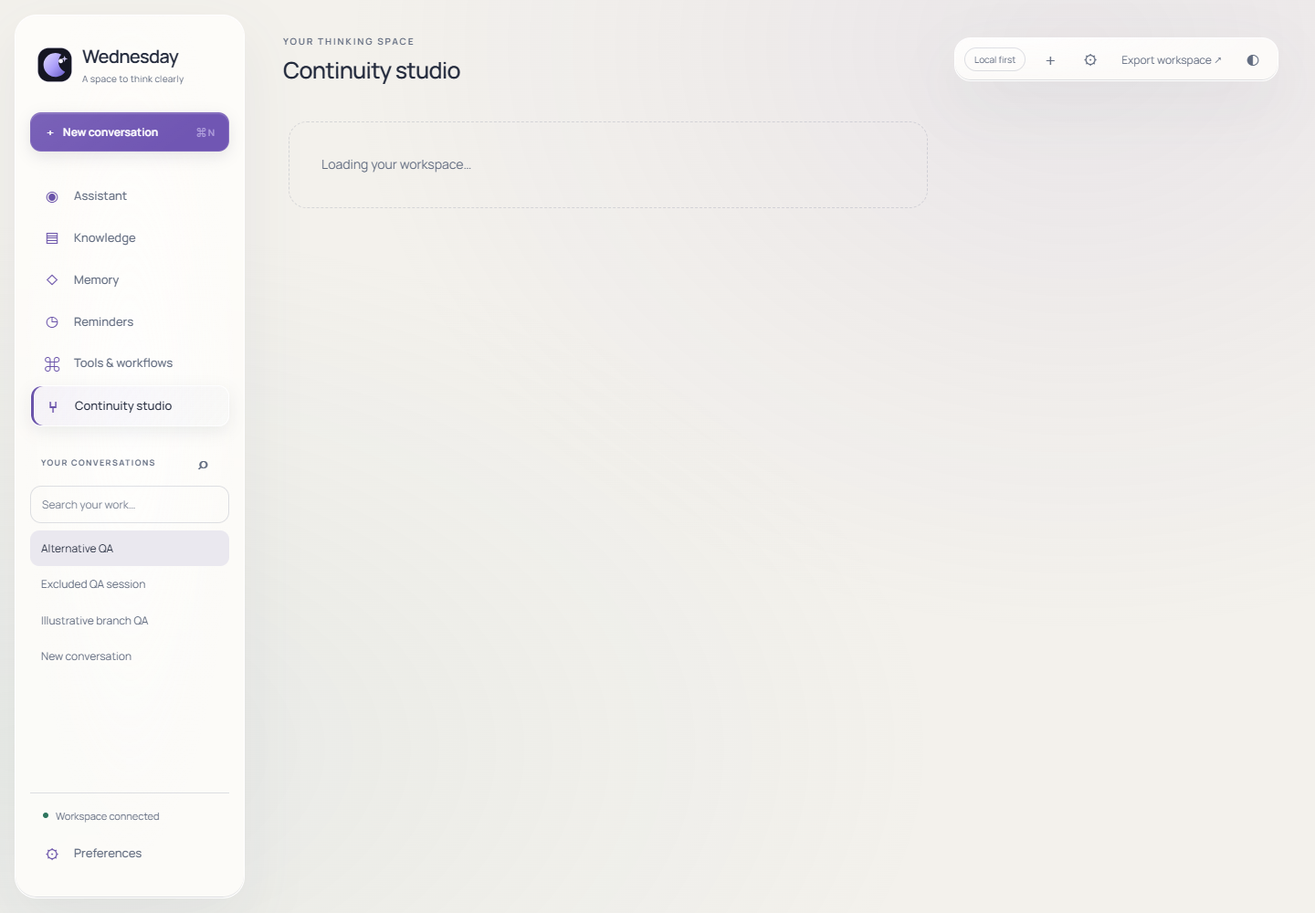
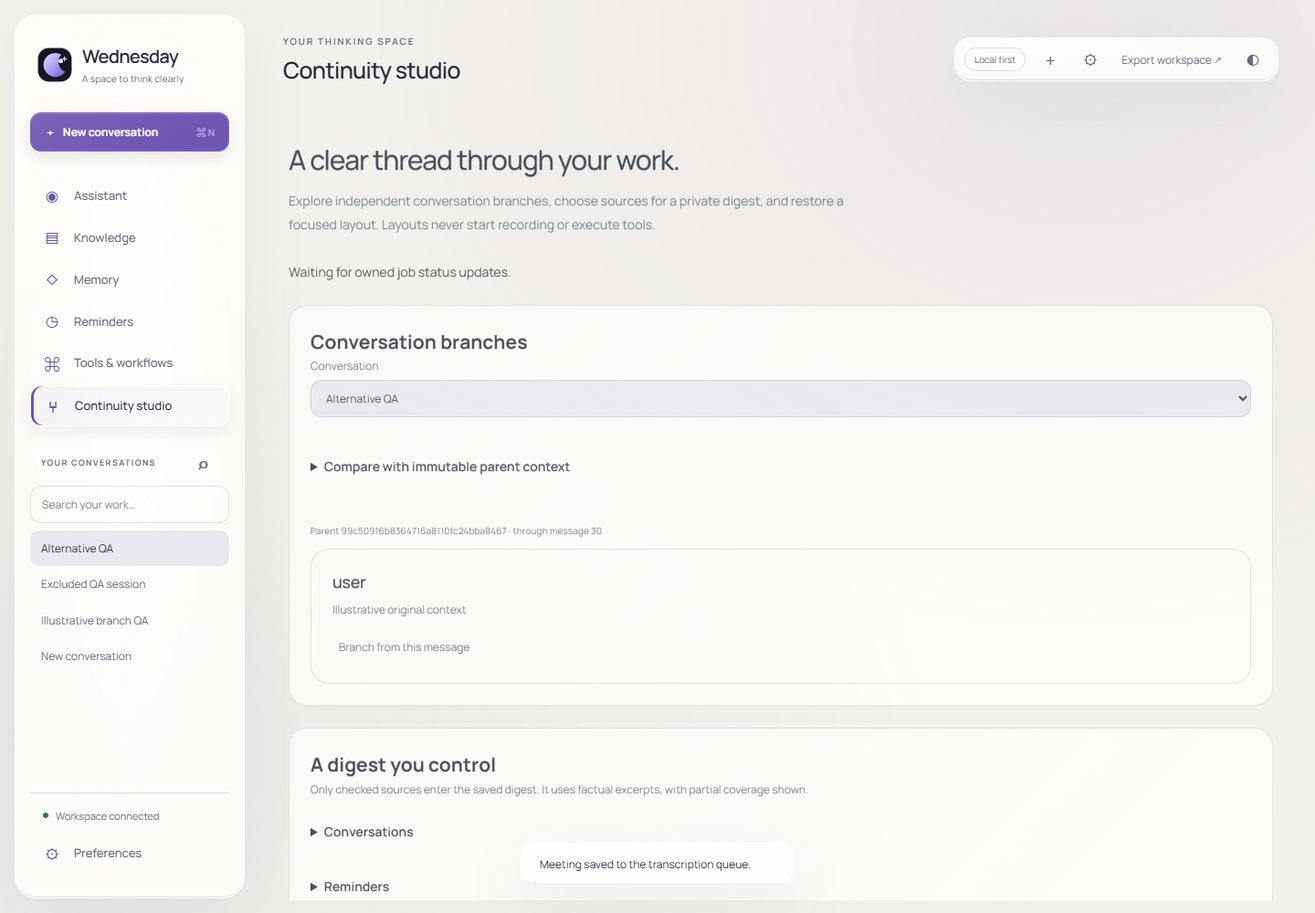
updates

diff --git a/ui/continuity.js b/ui/continuity.js
@@ -5,6 +5,7 @@ async function renderContinuity(panel,current){
     api('conversations'),api('reminders'),api('receipts'),api('continuity/layouts/browser'),api('continuity/digests')]);
   if(!current())return;
   panel.replaceChildren(intro('A clear thread through your work.','Explore independent conversation branches, choose sources for a private digest, and restore a focused layout. Layouts never start recording or execute tools.'));
+  const jobStatus=element('p','','Waiting for owned job status updates.');jobStatus.id='continuity-job-status';jobStatus.setAttribute('role','status');panel.append(jobStatus);
   const branchSection=element('section','card');branchSection.append(element('h2','','Conversation branches'));
   const select=field('Conversation','branchConversation','text',state.conversation||'',chats.conversations.map(c=>[c.id,c.title]));
   const history=element('div','continuity-list');branchSection.append(select,history);
@@ -61,9 +62,10 @@ async function renderContinuity(panel,current){
   }
   saved.layouts.forEach(l=>layouts.append(card(l.title,'Browser · revision '+l.revision,null,[button('Restore layout',async()=>{
     document.body.dataset.rail=l.value.rail;document.body.dataset.density=l.value.density;
-    // Context stays selected metadata: no automatic microphone, provider, or tool action.
+    if(meetingRecorder||meetingAcquiring)throw new Error("Stop and save recording before changing workspace context.");
+    const context=l.value.context_ids[0];if(context){await api("conversations/"+context);state.conversation=context;}
     sessionStorage.setItem('wednesday-layout-'+state.owner,JSON.stringify(l.value));
-    await showView(l.value.view);toast('Layout restored. Your draft is preserved.');
+    await showView(l.value.view);if(context)connect();toast('Layout restored. Your draft is preserved.');
   })])));panel.append(layouts);
   await renderRoutines(panel);
   await renderMeetings(panel);

diff --git a/ui/app.js b/ui/app.js
@@ -57,6 +57,7 @@ function dispatch(data){
     case 'error':case 'stt_error':case 'speech_unavailable':if(state.message&&!state.message.textContent){state.message.textContent=data.content;state.message.classList.add('operation-error');}toast(data.content,true);setActivity('Check your engine in Preferences');break;
     case 'interrupted':stopAudio();state.message=null;setActivity('Response interrupted');break;
     case 'cleared':state.conversation=data.conversation_id;localStorage.setItem('wednesday-conversation-'+state.owner,state.conversation);$('messages').replaceChildren();$('messages').classList.remove('has-messages');$('welcome').hidden=false;refreshHistory();break;
+    case 'routine_progress':case 'meeting_progress':{const job=data.job;if(job){const status=document.querySelector('#continuity-job-status');if(status)status.textContent=(data.type==='routine_progress'?'Routine':'Meeting')+' · '+job.status+' · '+job.id;}}break;
     case 'reminder':toast(data.content);send({type:'reminder_ack',reminder_id:data.reminder_id});if(state.view==='reminders')showView('reminders');break;
     case 'wake_detected':if(!state.recording)toggleRecording().catch(error=>toast(error.message,true));break;
   }

diff --git a/desktop/ContinuityAcceptance.cs b/desktop/ContinuityAcceptance.cs
@@ -37,9 +37,10 @@ public sealed partial class ContinuityWindow
         var routines=AcceptancePanel("Routines");AcceptanceField(routines,"Routine title").Text="QA native time routine";await AcceptanceClick(routines,"Add step");await AcceptanceClick(routines,"Save routine");await AcceptanceClick(routines,"Refresh routines and runs");var definitions=routines.Children.OfType<ComboBox>().First();definitions.SelectedItem=definitions.Items.Cast<Option>().Single(c=>c.Title=="QA native time routine");await AcceptanceClick(routines,"Dry-run preview");Require(AcceptanceField(routines,"Preview and execution receipts").Text.Contains("time"),"Native dry-run preview missing");await AcceptanceClick(routines,"Run reviewed routine");
         JsonElement routineResult=default;for(int i=0;i<100;i++){routineResult=await api("routines/runs",null,null);if(routineResult.GetProperty("runs").EnumerateArray().Any(r=>Text(r,"status")=="completed"))break;await Task.Delay(100);}Require(routineResult.GetProperty("runs").EnumerateArray().Any(r=>Text(r,"status")=="completed"),"Native routine did not complete");
         var meetings=AcceptancePanel("Meetings");AcceptanceField(meetings,"Meeting title").Text="Consented native synthetic meeting";await AcceptanceClick(meetings,"Import consented audio");Require(status.Text.Contains("Confirm consent"),"Native meeting consent gate missing");var checks=meetings.Children.OfType<CheckBox>().ToArray();checks[0].IsChecked=true;Require(checks[1].IsChecked!=true,"Native audio retention must default off");await AcceptanceClick(meetings,"Import consented audio");
-        JsonElement completed=default;for(int i=0;i<200;i++){var data=await api("meetings",null,null);completed=data.GetProperty("meetings").EnumerateArray().FirstOrDefault(m=>Text(m,"title")=="Consented native synthetic meeting");if(completed.ValueKind!=JsonValueKind.Undefined&&Text(completed,"status") is "completed" or "failed")break;await Task.Delay(100);}Require(completed.ValueKind!=JsonValueKind.Undefined&&Text(completed,"status")=="completed","Native real transcription failed");Require(!completed.GetProperty("audio_present").GetBoolean(),"Native service audio not removed after transcript persistence");await AcceptanceClick(meetings,"Refresh meeting jobs");var meetingList=meetings.Children.OfType<ComboBox>().Single();meetingList.SelectedItem=meetingList.Items.Cast<Option>().Single(c=>c.Id==Text(completed,"id"));await AcceptanceClick(meetings,"Load selected meeting");Require(AcceptanceField(meetings,"Timestamped transcript").Text.Contains("meeting",StringComparison.OrdinalIgnoreCase),"Native timestamped transcription missing");AcceptanceField(meetings,"Notes").Text="Reviewed native QA notes";await AcceptanceClick(meetings,"Save notes and proposals");var noteReadback=await api("meetings/"+Text(completed,"id"),null,null);Require(Text(noteReadback.GetProperty("notes"),"notes")=="Reviewed native QA notes","Native notes did not persist");
+        JsonElement completed=default;for(int i=0;i<1200;i++){var data=await api("meetings",null,null);completed=data.GetProperty("meetings").EnumerateArray().FirstOrDefault(m=>Text(m,"title")=="Consented native synthetic meeting");if(completed.ValueKind!=JsonValueKind.Undefined&&Text(completed,"status") is "completed" or "failed")break;await Task.Delay(100);}Require(completed.ValueKind!=JsonValueKind.Undefined&&Text(completed,"status")=="completed","Native real transcription failed");Require(!completed.GetProperty("audio_present").GetBoolean(),"Native service audio not removed after transcript persistence");await AcceptanceClick(meetings,"Refresh meeting jobs");var meetingList=meetings.Children.OfType<ComboBox>().Single();meetingList.SelectedItem=meetingList.Items.Cast<Option>().Single(c=>c.Id==Text(completed,"id"));await AcceptanceClick(meetings,"Load selected meeting");Require(AcceptanceField(meetings,"Timestamped transcript").Text.Contains("meeting",StringComparison.OrdinalIgnoreCase),"Native timestamped transcription missing");AcceptanceField(meetings,"Notes").Text="Reviewed native QA notes";await AcceptanceClick(meetings,"Save notes and proposals");var noteReadback=await api("meetings/"+Text(completed,"id"),null,null);Require(Text(noteReadback.GetProperty("notes"),"notes")=="Reviewed native QA notes","Native notes did not persist");
         var digests=AcceptancePanel("Digests");await AcceptanceClick(digests,"Load available sources");var sources=digests.Children.OfType<StackPanel>().Single();var selected=sources.Children.OfType<CheckBox>().Single(c=>c.Content.ToString()=="conversations: "+Text(parent,"title"));selected.IsChecked=true;await AcceptanceClick(digests,"Generate checked-source digest");Require(AcceptanceField(digests,"Saved digest").Text.Contains(parentId),"Native digest source link missing");await AcceptanceClick(digests,"Reload latest saved digest");Require(AcceptanceField(digests,"Saved digest").Text.Contains("Illustrative native QA original context"),"Native digest did not reload");
+        var scheduleEnabled=digests.Children.OfType<CheckBox>().Single();scheduleEnabled.IsChecked=true;await AcceptanceClick(digests,"Save selected-source schedule");scheduleEnabled.IsChecked=false;await AcceptanceClick(digests,"Reload saved schedule");Require(scheduleEnabled.IsChecked==true,"Native schedule did not reload");var savedSchedule=await api("continuity/digest-schedule",null,null);Require(savedSchedule.GetProperty("schedule").GetProperty("configuration").GetProperty("conversation_ids").EnumerateArray().Any(x=>x.GetString()==parentId),"Native schedule source scope lost");
         var layouts=AcceptancePanel("Layouts");AcceptanceField(layouts,"Layout name").Text="QA native focus";layouts.Children.OfType<ComboBox>().First().SelectedItem="compact";await AcceptanceClick(layouts,"Save desktop layout");await AcceptanceClick(layouts,"Load desktop layouts");var layoutList=layouts.Children.OfType<ComboBox>().Last();layoutList.SelectedItem=layoutList.Items.Cast<Option>().Single(l=>l.Title=="QA native focus");await AcceptanceClick(layouts,"Restore selected layout");Require(status.Text.Contains("Drafts and permissions"),"Native layout restore failed");Require(!recording.IsRecording,"Layout restore must not enable recording");
-        return new{passed=true,syntheticFixture=true,modelResponse="Controlled labeled fixture for branch context only; no live AI inference claim",checks=new[]{"native branch creation and immutable comparison","native dry-run and real time routine","native consent gate and real local transcription","native audio cleanup and notes readback","native selected-source digest and reload","native layout persistence and restore without recording"}};
+        return new{passed=true,syntheticFixture=true,modelResponse="Controlled labeled fixture for branch context only; no live AI inference claim",checks=new[]{"native branch creation and immutable comparison","native dry-run and real time routine","native consent gate and real local transcription","native audio cleanup and notes readback","native selected-source digest, schedule and reload","native layout persistence and restore without recording"}};
     }
 }

diff --git a/desktop/ContinuityWindow.cs b/desktop/ContinuityWindow.cs
@@ -107,14 +107,23 @@ public sealed partial class ContinuityWindow : Window
         Button(p,"Load available sources",async()=>{sources.Children.Clear();chosen.Clear();foreach(var endpoint in new[]{"conversations","reminders","receipts"}){var data=await api(endpoint,null,null);foreach(var row in data.GetProperty(endpoint).EnumerateArray()){var title=Text(row,"title");if(title.Length==0)title=Text(row,"text");if(title.Length==0)title=Text(row,"tool");var c=Check(sources,endpoint+": "+title);chosen.Add((c,endpoint,Text(row,"id")));}}});
         TextBox since=Field(p,"Include since · timezone-aware date",DateTimeOffset.UtcNow.AddDays(-7).ToString("O")),report=Field(p,"Saved digest","",true);report.IsReadOnly=true;
         Button(p,"Generate checked-source digest",async()=>{var data=await api("continuity/digests",HttpMethod.Post,new{since=since.Text,conversation_ids=chosen.Where(c=>c.Check.IsChecked==true&&c.Kind=="conversations").Select(c=>c.Id).ToArray(),reminder_ids=chosen.Where(c=>c.Check.IsChecked==true&&c.Kind=="reminders").Select(c=>c.Id).ToArray(),receipt_ids=chosen.Where(c=>c.Check.IsChecked==true&&c.Kind=="receipts").Select(c=>c.Id).ToArray()});report.Text=Text(data,"coverage")+"\n\n"+string.Join("\n\n",data.GetProperty("items").EnumerateArray().Select(x=>Text(x,"title")+": "+Text(x,"text")+"\nSource: "+Text(x,"source_id")));});
-        Button(p,"Reload latest saved digest",async()=>{var d=await api("continuity/digests",null,null);var rows=d.GetProperty("digests").EnumerateArray().ToArray();report.Text=rows.Length==0?"No digest saved.":Text(rows[0],"coverage")+"\n\n"+string.Join("\n\n",rows[0].GetProperty("items").EnumerateArray().Select(x=>Text(x,"title")+": "+Text(x,"text")+"\nSource: "+Text(x,"source_id")));});return p;
+        Button(p,"Reload latest saved digest",async()=>{var d=await api("continuity/digests",null,null);var rows=d.GetProperty("digests").EnumerateArray().ToArray();report.Text=rows.Length==0?"No digest saved.":Text(rows[0],"coverage")+"\n\n"+string.Join("\n\n",rows[0].GetProperty("items").EnumerateArray().Select(x=>Text(x,"title")+": "+Text(x,"text")+"\nSource: "+Text(x,"source_id")));});var enabled=Check(p,"Enable a local schedule from checked sources");var period=Choice(p,"Frequency","daily","weekly");var zone=Field(p,"Schedule timezone","UTC");var hour=Field(p,"Schedule hour · 0–23","9");var minute=Field(p,"Schedule minute · 0–59","0");var weekday=Field(p,"Weekly day · Monday 0 through Sunday 6","0");
+        Button(p,"Save selected-source schedule",async()=>{
+            if(!int.TryParse(hour.Text,out var h)||!int.TryParse(minute.Text,out var m)||!int.TryParse(weekday.Text,out var w))throw new InvalidOperationException("Use whole numbers for schedule time and weekday.");
+            await api("continuity/digest-schedule",HttpMethod.Put,new{enabled=enabled.IsChecked==true,period=period.SelectedItem.ToString(),timezone=zone.Text,hour=h,minute=m,weekday=w,conversation_ids=chosen.Where(c=>c.Check.IsChecked==true&&c.Kind=="conversations").Select(c=>c.Id).ToArray(),reminder_ids=chosen.Where(c=>c.Check.IsChecked==true&&c.Kind=="reminders").Select(c=>c.Id).ToArray(),receipt_ids=chosen.Where(c=>c.Check.IsChecked==true&&c.Kind=="receipts").Select(c=>c.Id).ToArray()});status.Text="Schedule saved for only the checked sources. The local service must be running.";
+        });
+        Button(p,"Reload saved schedule",async()=>{
+            var d=await api("continuity/digest-schedule",null,null);var row=d.GetProperty("schedule");if(row.ValueKind==JsonValueKind.Null){status.Text="No schedule saved.";return;}var c=row.GetProperty("configuration");enabled.IsChecked=c.GetProperty("enabled").GetBoolean();period.SelectedItem=Text(c,"period");zone.Text=Text(c,"timezone");hour.Text=Text(c,"hour");minute.Text=Text(c,"minute");weekday.Text=Text(c,"weekday");
+            foreach(var item in chosen)item.Check.IsChecked=c.GetProperty(item.Kind=="conversations"?"conversation_ids":item.Kind=="reminders"?"reminder_ids":"receipt_ids").EnumerateArray().Any(x=>x.GetString()==item.Id);
+            status.Text="Next due: "+Text(row,"next_due")+" "+Text(row,"error");
+        });return p;
     }
     private StackPanel Layouts()
     {
         var p=Panel("Task-aware layouts","Layouts change panel density only. Drafts remain intact; no recording, tool or permission is enabled.");var name=Field(p,"Layout name","Focus");var rail=Choice(p,"Navigation rail","expanded","compact");var density=Choice(p,"Content density","comfortable","focused");
         Button(p,"Save desktop layout",async()=>{await api("continuity/layouts/wpf",HttpMethod.Post,new{title=name.Text,value=new{version=1,view="chat",rail=rail.SelectedItem.ToString(),density=density.SelectedItem.ToString(),context_ids=conversation.Length>0?new[]{conversation}:Array.Empty<string>()}});status.Text="Desktop layout saved.";});
         var layouts=new ComboBox{DisplayMemberPath="Title"};p.Children.Add(layouts);var values=new Dictionary<string,JsonElement>();Button(p,"Load desktop layouts",async()=>{var d=await api("continuity/layouts/wpf",null,null);values.Clear();foreach(var row in d.GetProperty("layouts").EnumerateArray())values[Text(row,"id")]=row.GetProperty("value").Clone();layouts.ItemsSource=d.GetProperty("layouts").EnumerateArray().Select(x=>new Option(Text(x,"id"),Text(x,"title"))).ToList();});
-        Button(p,"Restore selected layout",()=>{if(layouts.SelectedItem is Option s){var v=values[s.Id];applyLayout(Text(v,"rail"),Text(v,"density"));status.Text="Layout restored. Drafts and permissions are preserved.";}return Task.CompletedTask;});return p;
+        Button(p,"Restore selected layout",async()=>{if(recording.IsRecording)throw new InvalidOperationException("Stop and save the recording before restoring a layout.");if(layouts.SelectedItem is Option s){var v=values[s.Id];var contexts=v.GetProperty("context_ids").EnumerateArray().Select(x=>x.GetString()).Where(x=>!string.IsNullOrEmpty(x)).ToArray();if(contexts.Length>0&&selectConversation is not null){await api("conversations/"+contexts[0],null,null);await selectConversation(contexts[0]!);}applyLayout(Text(v,"rail"),Text(v,"density"));status.Text="Layout restored. Drafts and permissions are preserved.";}});return p;
     }
     private sealed record Option(string Id,string Title);
     public sealed class RoutineStep

diff --git a/backend/app/main.py b/backend/app/main.py
@@ -77,11 +77,13 @@ async def lifespan(app):
     from app.meetings import Meetings
     Meetings(store).recover()
     meeting_task = asyncio.create_task(meeting_loop())
+    progress_task = asyncio.create_task(progress_loop())
     yield
     task.cancel()
     routine_task.cancel()
     meeting_task.cancel()
-    await asyncio.gather(task,routine_task,meeting_task,return_exceptions=True)
+    progress_task.cancel()
+    await asyncio.gather(task,routine_task,meeting_task,progress_task,return_exceptions=True)
     for runtime in tuple(runtimes):
         await runtime.interrupt(False)
     if wake_listener:
@@ -544,6 +546,22 @@ from app.meetings import router as meeting_router
 app.include_router(continuity_router(lambda: store, owner))
 app.include_router(routine_router(lambda: store, owner))
 app.include_router(meeting_router(lambda: store, owner))
+
+
+async def progress_loop():
+    from app.progress import Progress
+    observers={}
+    while True:
+        for runtime in tuple(runtimes):
+            try:
+                observer=observers.setdefault(runtime,Progress(store))
+                for event in observer.changes(runtime.owner):
+                    kind=event.pop('type')
+                    await runtime.send(kind,job=event)
+            except asyncio.CancelledError:raise
+            except Exception:logger.debug('Job progress deferred until reconnect')
+        observers={runtime:observer for runtime,observer in observers.items() if runtime in runtimes}
+        await asyncio.sleep(.5)
 
 
 async def meeting_loop():

diff --git a/backend/tests/test_progress.py b/backend/tests/test_progress.py
@@ -1,0 +1,17 @@
+from app.workspace import Workspace
+from app.routines import RoutineService,Definition,Step
+from app.meetings import Meetings
+from app.progress import Progress
+
+def test_owned_reconnect_and_changed_progress(tmp_path):
+    store=Workspace(tmp_path/'workspace.db');RoutineService(store);Meetings(store)
+    with store.db() as db:
+        db.execute("INSERT INTO routine_runs VALUES(?,?,?,?,?,?,?,?,?,?)",('run','owner','routine','{}','queued',0,'[]',-1,'2026-10-16','2026-10-16'))
+    observer=Progress(store)
+    assert observer.changes('other')==[]
+    first=observer.changes('owner');assert first[0]['status']=='queued'
+    assert set(first[0])=={'type','id','status','updated_at','cursor'}
+    assert observer.changes('owner')==[]
+    with store.db() as db:db.execute("UPDATE routine_runs SET status='completed',updated_at='later' WHERE id='run'")
+    assert observer.changes('owner')[0]['status']=='completed'
+    assert Progress(store).changes('owner')[0]['status']=='completed'

diff --git a/backend/app/progress.py b/backend/app/progress.py
@@ -1,0 +1,13 @@
+"""Owned job progress snapshots; reconnects replay current state, never operation results."""
+class Progress:
+    def __init__(self,store):self.store=store;self.seen={}
+    def changes(self,owner):
+        rows=[]
+        with self.store.db() as db:
+            for table,kind in [('routine_runs','routine_progress'),('meetings','meeting_progress')]:
+                columns='id,status,updated_at'+(',cursor' if table=='routine_runs' else '')
+                for row in db.execute(f'SELECT {columns} FROM {table} WHERE owner=? ORDER BY updated_at DESC LIMIT 100',(owner,)):
+                    item=dict(row);key=(kind,item['id']);stamp=(item['status'],item['updated_at'],item.get('cursor'))
+                    rows.append((key,stamp,item))
+        current={key:stamp for key,stamp,_ in rows};changed=[{'type':key[0],**item} for key,stamp,item in rows if self.seen.get(key)!=stamp];self.seen=current
+        return changed

diff --git a/desktop/MainViewModel.cs b/desktop/MainViewModel.cs
@@ -103,6 +103,8 @@ public partial class MainViewModel : ObservableObject, IDisposable
         if(blocked.Contains(eventTurn)&&type is not ("interrupted" or "cleared" or "session"))return;
         switch(type)
         {
+            case "routine_progress":case "meeting_progress":
+                if(data.TryGetProperty("job",out var progress))ConnectionStatus=(type=="routine_progress"?"Routine":"Meeting")+" · "+Text(progress,"status");break;
             case "session":
                 conversation=Text(data,"conversation_id");Messages.Clear();
                 foreach(var m in data.GetProperty("history").EnumerateArray())Messages.Add(new(){Sender=Text(m,"role")=="user"?"You":"Wednesday",Content=Text(m,"content"),IsUser=Text(m,"role")=="user"});

diff --git a/backend/app/runtime.py b/backend/app/runtime.py
@@ -21,7 +21,7 @@ class Runtime:
     async def send(self, type, **data):
         async with self.lock:
             self.sequence += 1
-            control = type in {'session','reminder','wake_detected','cleared','context_updated','interrupted'}
+            control = type in {'session','reminder','wake_detected','cleared','context_updated','interrupted','routine_progress','meeting_progress'}
             await self.ws.send_json({'version':1,'type':type,'session_id':self.session_id,'conversation_id':self.conversation,'turn_id':None if control else self.turn_id,'sequence':self.sequence,**data})
 
     async def interrupt(self, announce=True):

diff --git a/docs/CONTINUITY-2026-10-16.md b/docs/CONTINUITY-2026-10-16.md
@@ -1,0 +1,23 @@
+# Wednesday continuity studio — manual acceptance
+
+Open Continuity studio in the browser or Windows assistant. Opening a panel never starts recording or executes a routine. Saved resources belong to your bearer workspace session; preserve its private client data to reopen them.
+
+## Local meeting setup
+
+Install `backend/requirements-meetings.txt` into your chosen Python environment. Provision a compatible faster-whisper model directory explicitly and set `WEDNESDAY_MEETING_MODEL` to its absolute path in the service process environment. Set `PYTHONPATH` to the absolute `backend` directory when starting the service from the repository root. No model download or installation occurs during recording/import. PyAV is pinned to 16.0.1 after validating real decoding. Use Python 3.11/3.12. The core remains usable without speech dependencies.
+
+## Five acceptance journeys
+
+1. **Routines:** Add ordered time/search/weather/assistant/reminder steps, conditions and stop/continue policies. Input references may point only backwards. Save and inspect Dry-run preview, then explicitly Run. Assistant/reminder steps pause for individual approval. Stop cancels remaining work. Inspect actual results; failures remain failed. Interrupted in-flight operations do not silently replay after restart. There are no arbitrary scripts or implicit messages.
+2. **Branches:** Load a conversation, choose a saved message, name a branch and create it. Inspect the immutable parent comparison; continue in the independent branch. Its messages cannot replace parent history or silently modify global memories. Reload and check the branch relation remains saved.
+3. **Meetings:** First try importing without participant consent: no job should be created. Confirm consent and import supported audio or explicitly record with the visible indicator/Stop control. Expect queued/processing/completed states and timestamped transcription from the installed local engine. Raw service audio is deleted only after successful transcript persistence unless retention was selected. Failed jobs retain audio for Retry/Delete. Save notes, decisions and proposed reminders, then reload. Creating an actual reminder still requires explicit review in Reminders. Importing never deletes the user's original file. Browser permission cancellation releases late streams; recorder startup failure releases microphone tracks.
+4. **Digests:** Select individual conversations/reminders/approved receipts and generate a digest. Every item links to its source; unselected sessions remain excluded. Reload the saved snapshot. Both browser and native clients support durable daily/weekly local schedules with timezone and checked sources, plus on-demand generation. Coverage is explicitly partial when sources exceed collection bounds. Default summaries are deterministic; no live AI narrative is claimed.
+5. **Layouts:** Save navigation/density presets for the current client and explicitly restore one. Unsaved message drafts remain intact, and recording/tools/permissions remain unchanged. Restoring a saved context validates ownership before selecting it. A missing context fails clearly; active meeting recording must be stopped before changing context.
+
+## Visual expectations and evidence
+
+Calm glass navigation, named native tabs, readable timestamped transcripts, immutable comparisons, ordered routine steps and source-linked digest cards extend the existing themes. Browser desktop/phone screenshots and actual acceptance are in `continuity-2026-10-15`; native five-panel render screenshots are in the private test-results directory.
+
+Forty-one backend regressions passed, including status-event ownership and reconnect snapshots. Real browser acceptance verified branch comparison, real time routine, checked digest/schedule persistence, consent gates, actual local transcription, audio cleanup, notes reload and layout persistence, with no page errors. Local speech acceptance used consented synthetic Windows Speech audio and an installed local tiny model, not cloud inference. Native Release builds pass with zero warnings. Native functional acceptance passed all six recorded checks, including real transcription, cleanup, saved notes, branch comparison, routine execution and draft-safe layout restoration. Its branch context used a labeled controlled model response; live AI inference is not claimed. Refreshed self-contained package results are recorded separately as they finish. Physical microphone/playback, live providers, distribution devices and signed releases remain unverified.
+
+Routine/meeting status events extend the versioned realtime protocol without carrying private transcript or result bodies. They update status without replacing unfinished editors. Refresh retrieves actual durable results. Final package checks and demonstration/release metadata are recorded separately. No simulated completion is used.

diff --git a/docs/ARCHITECTURE.md b/docs/ARCHITECTURE.md
@@ -27,3 +27,7 @@ The hosted service exposes only deliberate bounded tools. `DEMO_MODE` blocks hos
 Optional modules are loaded only when selected. The core installation runs without Torch, Whisper, Coqui, wake-word drivers, Ollama SDKs or paid keys. Existing experimental legacy modules remain unrouted. Schema creation is additive and preserves existing flagship records; export and SQLite backup provide recovery paths.
 
 Original vector masters: `ui/assets/wednesday.svg` and `aurascript/src/assets/aurascript.svg`. Raster platform exports live under `desktop/Assets` and `aurascript/assets`. Semantic material, text, spacing, radius and motion rules are implemented in CSS/XAML; glass is concentrated in navigation, toolbars, sheets and controls so content remains readable.
+
+## Continuity services
+
+Owned additive SQLite resources persist branches, routines/runs, meeting jobs, source-selected digests/schedules and client layouts. Bounded background workers execute routine steps and installed local transcription; durable confirmation gates precede consequential actions. Raw service audio is removed after transcript commit unless retention was chosen. A separate observer emits version-1 `routine_progress` and `meeting_progress` control events with job ID/status/revision time only, outside assistant-turn cancellation. Reconnects replay current owned state. Fixtures are in `fixtures/events.v1.json`. Results/transcripts remain authenticated HTTP reads.

diff --git a/README.md b/README.md
@@ -54,3 +54,7 @@ The NSIS package is generated under `aurascript/dist`. [Package-Windows.ps1](scr
 Hosted browser demonstrations must use `DEMO_MODE=true`, HTTPS, an exact allowed origin, private storage and server-side provider credentials. Demo mode blocks local microphone listeners and host launches. The hosted browser has no Electron IPC bridge and cannot run terminal processes or read host files. [Container deployment](deploy/compose.yaml) provides a bounded local showcase service; private desktop operation remains the complete local workflow.
 
 The former scaffold installers now use maintained source and never overwrite the UI. Experimental legacy modules are not routed by the flagship service; old automatic screenshots, global histories and generated editor runtimes are superseded.
+
+## Continuity studio
+
+Routines, independent conversation branches, consented local meeting transcription, selected-source digests and saved layouts are available in the browser and native Windows client. See [manual checks, setup and remaining release work](docs/CONTINUITY-2026-10-16.md).
